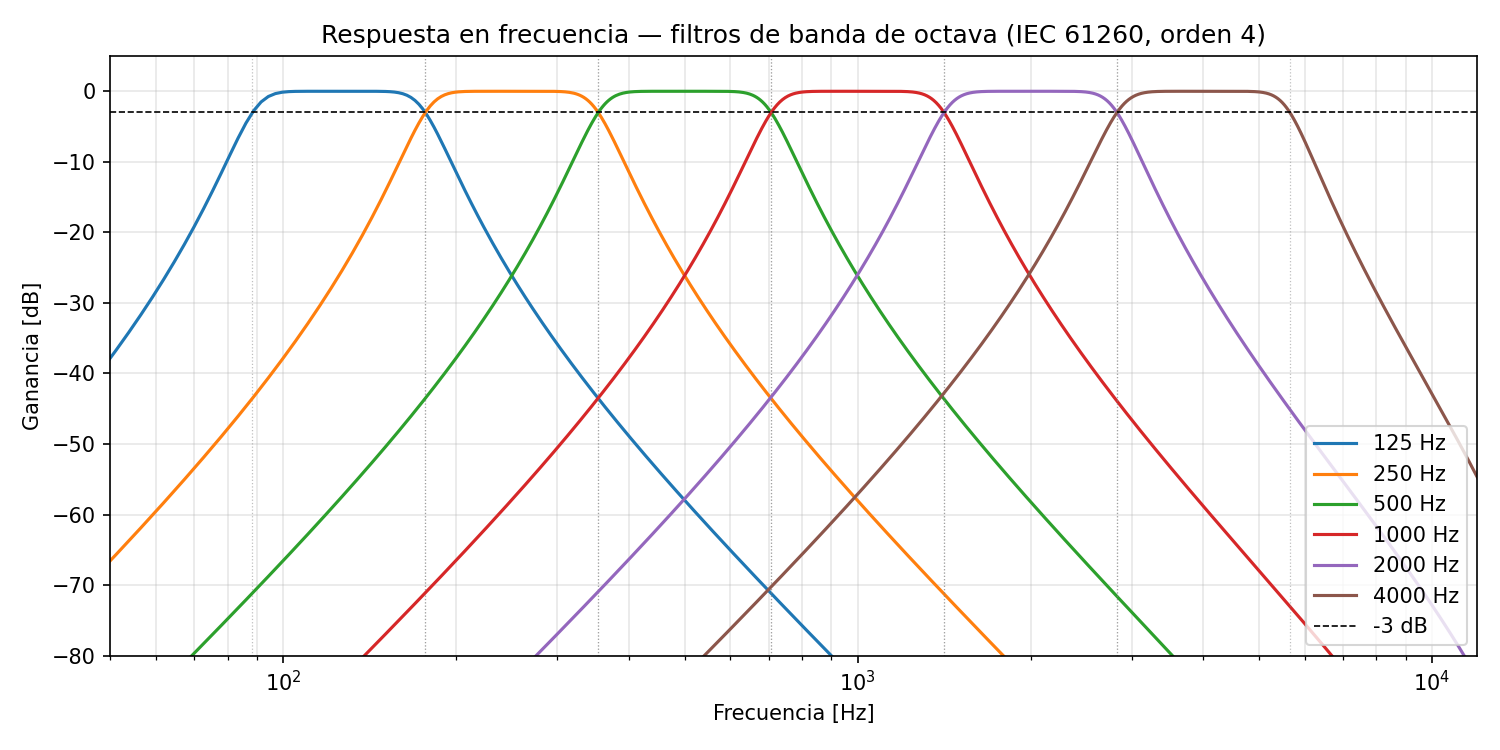
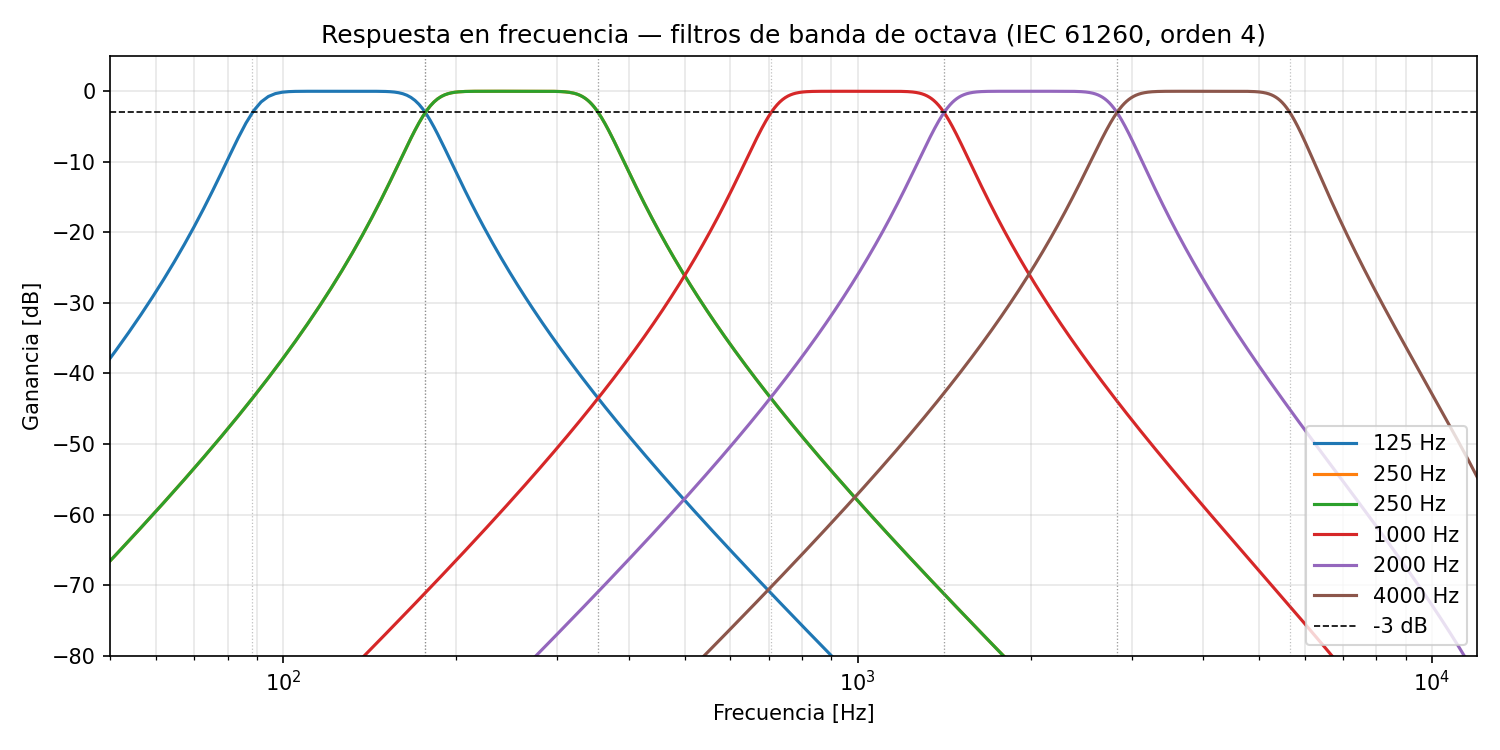
docs: Generada ri casera con obtener_ri_desde_sweep e implementados gráficos de validación

diff --git a/docs/m2/generate_m2.py b/docs/m2/generate_m2.py
@@ -12,9 +12,11 @@ SCRIPT_DIR = os.path.dirname(os.path.abspath(__file__))
 ROOT_DIR = os.path.abspath(os.path.join(SCRIPT_DIR, "../.."))
 sys.path.insert(0, ROOT_DIR)
 
+import soundfile as sf
+
 from app.services.signal_utils import a_escala_log, cargar_audio, sintetizar_ri
 
-BANDAS = [125, 250, 500, 1000, 2000, 4000]
+BANDAS = [125, 250, 250, 1000, 2000, 4000]
 FS_REF = 44100
 
 # =========================
@@ -116,29 +118,120 @@ print("OK Guardado:", out_file)
 
 
 # =========================
-# RI SINTETIZADA — mismo T60 en todas las bandas
+# RI MEDIDA — completa y procesada
 # =========================
-T60 = 1.5
-duracion = 3.0
-t60_por_banda = {fc: T60 for fc in BANDAS}
+mediciones_dir = os.path.join(SCRIPT_DIR, "mediciones")
 
-ri_sint = sintetizar_ri(t60_por_banda, fs=FS_REF, duracion=duracion)
-t_sint = np.arange(len(ri_sint)) / FS_REF
+archivos_full = sorted(
+    [f for f in os.listdir(mediciones_dir) if f.startswith("ri_completa_")],
+    reverse=True,
+)
+archivos_proc = sorted(
+    [f for f in os.listdir(mediciones_dir) if f.startswith("ri_procesada_")],
+    reverse=True,
+)
 
-plt.figure(figsize=(10, 4))
-plt.plot(t_sint, a_escala_log(ri_sint), color="steelblue", linewidth=0.8)
-plt.axhline(-60, color="red", linestyle="--", linewidth=0.8, label="-60 dB")
-plt.xlabel("Tiempo [s]")
-plt.ylabel("Amplitud [dB]")
-plt.title(f"RI sintetizada — T60 = {T60} s en todas las bandas")
-plt.ylim(-120, 5)
-plt.legend()
-plt.grid(alpha=0.4)
-plt.tight_layout()
+if not archivos_full or not archivos_proc:
+    print("No se encontraron archivos de medición en mediciones/. Saltando plots de RI medida.")
+else:
+    ri_full, fs_med = sf.read(os.path.join(mediciones_dir, archivos_full[0]))
+    ri_proc, _     = sf.read(os.path.join(mediciones_dir, archivos_proc[0]))
 
-out_file = os.path.join(SCRIPT_DIR, "ri_sintetizada.png")
-plt.savefig(out_file, dpi=150)
-plt.close()
-print("OK Guardado:", out_file)
+    # RI completa: recortar desde 100 ms antes del pico
+    MARGEN_MS = 100
+    margen_muestras = int(MARGEN_MS / 1000 * fs_med)
+    idx_pico = int(np.argmax(np.abs(ri_full)))
+    idx_inicio = max(0, idx_pico - margen_muestras)
+    ri_full_recortada = ri_full[idx_inicio:]
+    # t=0 en el pico, margen visible como tiempo negativo
+    t_full_ms = (np.arange(len(ri_full_recortada)) - margen_muestras) / fs_med * 1000
+
+    plt.figure(figsize=(10, 4))
+    plt.plot(t_full_ms, ri_full_recortada, linewidth=0.5, color="steelblue")
+    plt.xlabel("Tiempo [ms]")
+    plt.ylabel("Amplitud")
+    plt.title("RI medida — Convolución completa")
+    plt.xlim(-MARGEN_MS, 250 - MARGEN_MS)
+    plt.grid(alpha=0.3)
+    plt.tight_layout()
+    out_file = os.path.join(SCRIPT_DIR, "ri_medida_completa.png")
+    plt.savefig(out_file, dpi=150)
+    plt.close()
+    print("OK Guardado:", out_file)
+
+    # RI completa — igual pero con línea vertical en el onset de ri_procesada
+    idx_pico_proc = int(np.argmax(np.abs(ri_proc)))
+    t_onset_ms = -idx_pico_proc / fs_med * 1000
+
+    plt.figure(figsize=(10, 4))
+    plt.plot(t_full_ms, ri_full_recortada, linewidth=0.5, color="steelblue")
+    plt.axvline(t_onset_ms, color="tomato", linestyle="--", linewidth=1.5,
+                label=f"Valor inicial de RI aplicando criterio ≈ {-round(t_onset_ms)} ms antes del pico")
+    plt.xlabel("Tiempo [ms]")
+    plt.ylabel("Amplitud")
+    plt.title("RI medida — Convolución completa y umbral temporal ")
+    plt.xlim(-MARGEN_MS, 250 - MARGEN_MS)
+    plt.legend(loc="upper right")
+    plt.grid(alpha=0.3)
+    plt.tight_layout()
+    out_file = os.path.join(SCRIPT_DIR, "ri_medida_completa_onset.png")
+    plt.savefig(out_file, dpi=150)
+    plt.close()
+    print("OK Guardado:", out_file)
+
+    # RI completa — duración total señalando el último 10% usado para estimar el piso de ruido
+    n_ruido = max(1, len(ri_full) // 10)
+    t_all_ms = (np.arange(len(ri_full)) - idx_pico) / fs_med * 1000
+    t_noise_start_ms = float((len(ri_full) - n_ruido - idx_pico) / fs_med * 1000)
+    t_noise_end_ms   = float((len(ri_full) - idx_pico) / fs_med * 1000)
+
+    fig, ax = plt.subplots(figsize=(13, 4))
+    ax.plot(t_all_ms, ri_full, linewidth=0.3, color="steelblue")
+    ax.axvspan(t_noise_start_ms, t_noise_end_ms, alpha=0.15, color="tomato", zorder=0)
+
+    ylim = ax.get_ylim()
+    y_span = ylim[1] - ylim[0]
+    x_text = t_noise_end_ms / 2   # centro del eje x completo
+    y_text = ylim[0] + y_span * 0.82   # desplazado hacia arriba
+
+    ax.annotate(
+        f"Último 10% de la señal:\nEstimación RMS del piso de ruido\npara el umbral",
+        xy=(t_noise_start_ms + (t_noise_end_ms - t_noise_start_ms) * 0.3, 0),
+        xytext=(x_text, y_text),
+        fontsize=14,
+        color="tomato",
+        ha="center",
+        va="center",
+        bbox=dict(facecolor="white", edgecolor="tomato", alpha=0.85, boxstyle="round,pad=0.4"),
+        arrowprops=dict(arrowstyle="->", color="tomato", lw=1.5),
+    )
+
+    ax.set_xlim(-MARGEN_MS, t_noise_end_ms + MARGEN_MS)
+    ax.set_xlabel("Tiempo [ms]")
+    ax.set_ylabel("Amplitud")
+    ax.set_title("Estimación del piso de ruido en la convolución completa")
+    ax.grid(alpha=0.3)
+    fig.tight_layout()
+    out_file = os.path.join(SCRIPT_DIR, "ri_medida_piso_ruido.png")
+    fig.savefig(out_file, dpi=150)
+    plt.close(fig)
+    print("OK Guardado:", out_file)
+
+    # RI procesada — t=0 en el onset (ya recortada por obtener_ri_desde_sweep)
+    t_proc_ms = np.arange(len(ri_proc)) / fs_med * 1000
+
+    plt.figure(figsize=(10, 4))
+    plt.plot(t_proc_ms, ri_proc, linewidth=0.5, color="steelblue")
+    plt.xlabel("Tiempo [ms]")
+    plt.ylabel("Amplitud")
+    plt.title("RI de obtener_ri_desde_sweep()")
+    plt.xlim(0, 250)
+    plt.grid(alpha=0.3)
+    plt.tight_layout()
+    out_file = os.path.join(SCRIPT_DIR, "ri_medida_procesada.png")
+    plt.savefig(out_file, dpi=150)
+    plt.close()
+    print("OK Guardado:", out_file)
 
 print("M2 COMPLETADO")
+
